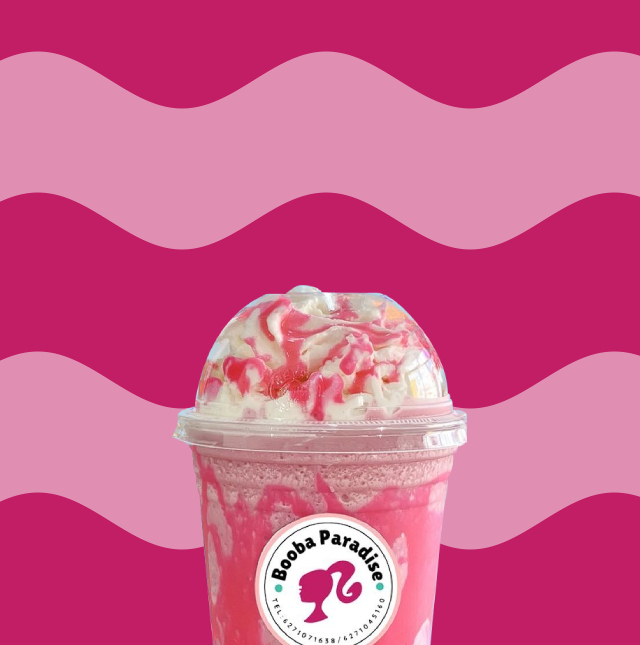
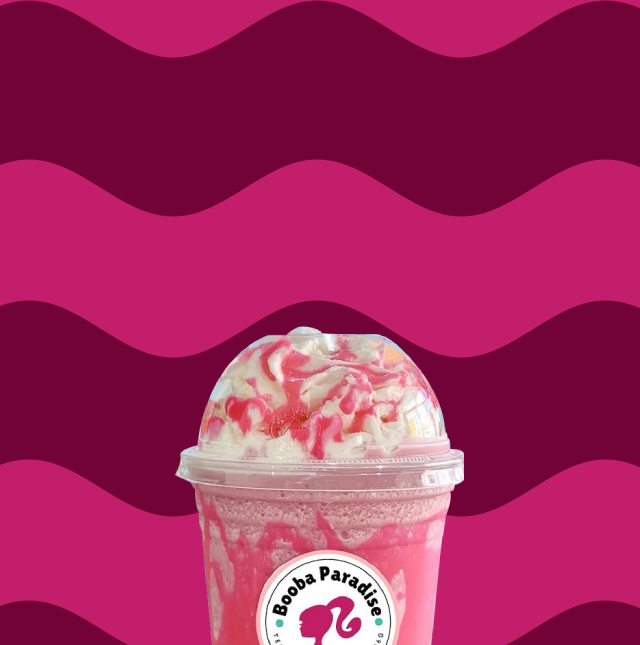
Added barbie boba news and changed MenuWavyBackground

diff --git a/src/pages/StoreDescription/index.js b/src/pages/StoreDescription/index.js
@@ -1,7 +1,6 @@
 import React, { useEffect, useState } from "react";
 import { View, Text, Pressable, Image } from "react-native";
 import styles from "./styles";
-
 import useAxios from "../../hooks/useAxios";
 import axiosInstance from "../../apis/api_instance";
 import useBusinessStatus from "../../hooks/useBusinessStatus";
@@ -9,6 +8,11 @@ import { colors, fonts } from "../../variables";
 import { FontAwesomeIcon } from "@fortawesome/react-native-fontawesome";
 import { faClock } from "@fortawesome/free-solid-svg-icons/faClock";
 import { faXmark } from "@fortawesome/free-solid-svg-icons/faXmark";
+import { faStore } from "@fortawesome/free-solid-svg-icons/faStore";
+import { faBagShopping } from "@fortawesome/free-solid-svg-icons/faBagShopping";
+import { faCaretRight } from "@fortawesome/free-solid-svg-icons/faCaretRight";
+import { faLocationDot } from "@fortawesome/free-solid-svg-icons/faLocationDot";
+import { faCaretDown } from "@fortawesome/free-solid-svg-icons/faCaretDown";
 import { useNavigation } from "@react-navigation/native";
 
 const StoreDescription = () => {
@@ -29,7 +33,7 @@ const StoreDescription = () => {
     return response[0];
   };
 
-  const { name, address, opening_hours, services } = response
+  const { name, address, opening_hours } = response
     ? storeDetails(response[0])
     : [];
 
@@ -40,18 +44,28 @@ const StoreDescription = () => {
   return (
     <View style={styles.container}>
       <Pressable
-      // onPress={navigation.goBack()}
+        onPress={() => {
+          navigation.goBack();
+        }}
+        style={styles.goBackBtnContainer}
       >
-        <FontAwesomeIcon icon={faXmark} />
+        <FontAwesomeIcon
+          icon={faXmark}
+          style={[styles.icon, { color: colors.headerBackground }]}
+        />
       </Pressable>
-      <View style={styles.businessNameContainer}>
+      <View style={[styles.businessNameContainer, styles.row]}>
         <Image
           source={require("../../../assets/boobaPin.png")}
           style={styles.icon}
         />
         <Text style={styles.businessName}>Booba Paradise</Text>
       </View>
-      <View style={styles.businessHoursContainer}>
+      <View style={[styles.addressContainer, styles.row]}>
+        <FontAwesomeIcon icon={faLocationDot} style={styles.icon} />
+        <Text style={styles.address}>{address}</Text>
+      </View>
+      <View style={[styles.businessHoursContainer, styles.row]}>
         <View style={styles.headerContainer}>
           <FontAwesomeIcon icon={faClock} style={styles.icon} />
           <Text
@@ -62,6 +76,10 @@ const StoreDescription = () => {
           >
             {status}: <Text style={styles.statusMessage}>{message}</Text>
           </Text>
+          <FontAwesomeIcon
+            icon={faCaretDown}
+            style={[styles.icon, { color: colors.headerBackground }]}
+          />
         </View>
         <View style={styles.businessHoursTable}>
           {name &&
@@ -71,6 +89,26 @@ const StoreDescription = () => {
                 <Text style={styles.hours}>{weekday.businessHours}</Text>
               </View>
             ))}
+        </View>
+        <View style={[styles.servicesContainer, styles.row]}>
+          <Text style={styles.servicesTitle}>Servicios</Text>
+          <View style={styles.serviceItem}>
+            <FontAwesomeIcon icon={faStore} style={styles.icon} />
+            <Text style={styles.serviceLabel}>Para comer aquí</Text>
+          </View>
+          <View style={styles.serviceItem}>
+            <FontAwesomeIcon icon={faBagShopping} style={styles.icon} />
+            <Text style={styles.serviceLabel}>Para llevar</Text>
+          </View>
+        </View>
+        <View style={[styles.btnContainer, styles.row]}>
+          <Pressable style={styles.directionsBtn}>
+            <Text>Cómo llegar</Text>
+            <FontAwesomeIcon
+              icon={faCaretRight}
+              style={[styles.icon, { color: colors.headerBackground }]}
+            />
+          </Pressable>
         </View>
       </View>
     </View>

diff --git a/src/pages/StoreDescription/styles.js b/src/pages/StoreDescription/styles.js
@@ -1,10 +1,29 @@
 import { StyleSheet } from "react-native";
+import { colors } from "../../variables";
 
 const styles = StyleSheet.create({
   container: {
     alignItems: "flex-start",
     justifyContent: "flex-start",
     paddingTop: 74,
+  },
+  goBackBtnContainer: {
+    width: "100%",
+    paddingHorizontal: 20,
+    marginVertical: 16,
+    alignItems: "flex-end",
+  },
+  row: {
+    width: "100%",
+    paddingHorizontal: 20,
+    marginBottom: 16,
+    alignItems: "center",
+    justifyContent: "flex-start",
+  },
+  icon: {
+    height: 24,
+    width: 24,
+    color: colors.bottomTabIcon,
   },
 });
 

diff --git a/src/components/StoreDescBottomTab.js b/src/components/StoreDescBottomTab.js
@@ -14,7 +14,6 @@ import {
 import * as SplashScreen from "expo-splash-screen";
 import { useNavigation } from "@react-navigation/native";
 import useBusinessStatus from "../hooks/useBusinessStatus";
-import { setHours, setMinutes } from "date-fns";
 SplashScreen.preventAutoHideAsync();
 
 const StoreDescBottomTab = ({ details: { name, address, opening_hours } }) => {

diff --git a/src/components/TopBar/LocationPin.js b/src/components/TopBar/LocationPin.js
@@ -11,7 +11,7 @@ import { useNavigation } from "@react-navigation/native";
 const LocationPin = () => {
   const navigation = useNavigation();
   const handlePress = () => {
-    navigation.navigate("LocationStack");
+    navigation.navigate("LocationStack", { screen: "StoreLocator" });
   };
   return (
     <Pressable onPress={handlePress}>

diff --git a/src/variables.js b/src/variables.js
@@ -9,7 +9,7 @@ export const colors = {
   newsBackground: "#e7d9ea",
   boobaText: "#0d06ff",
   paradiseText: "#ea8400",
-  articleBackground1: "#e5f3b0",
+  articleBackground1: "#fed7e9",
   articleBackground2: "#fffcf9",
   articleBackground3: "#b0ddf5",
   landingFooterBackground: "#3c3346",
